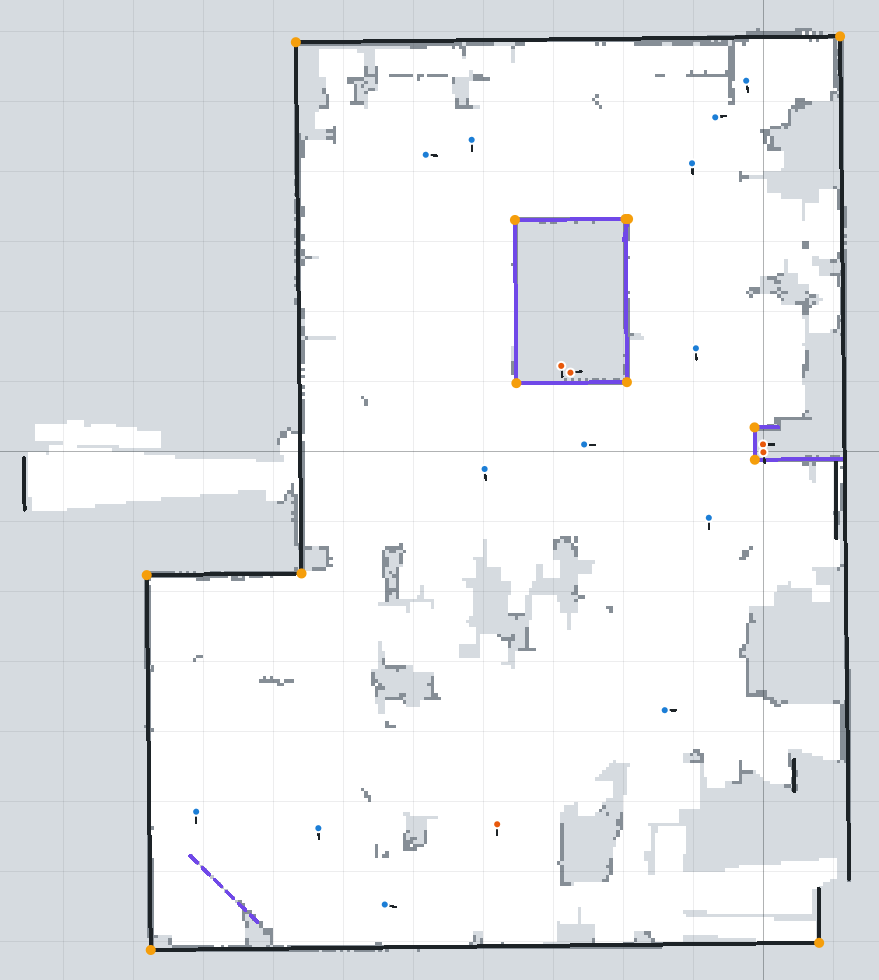
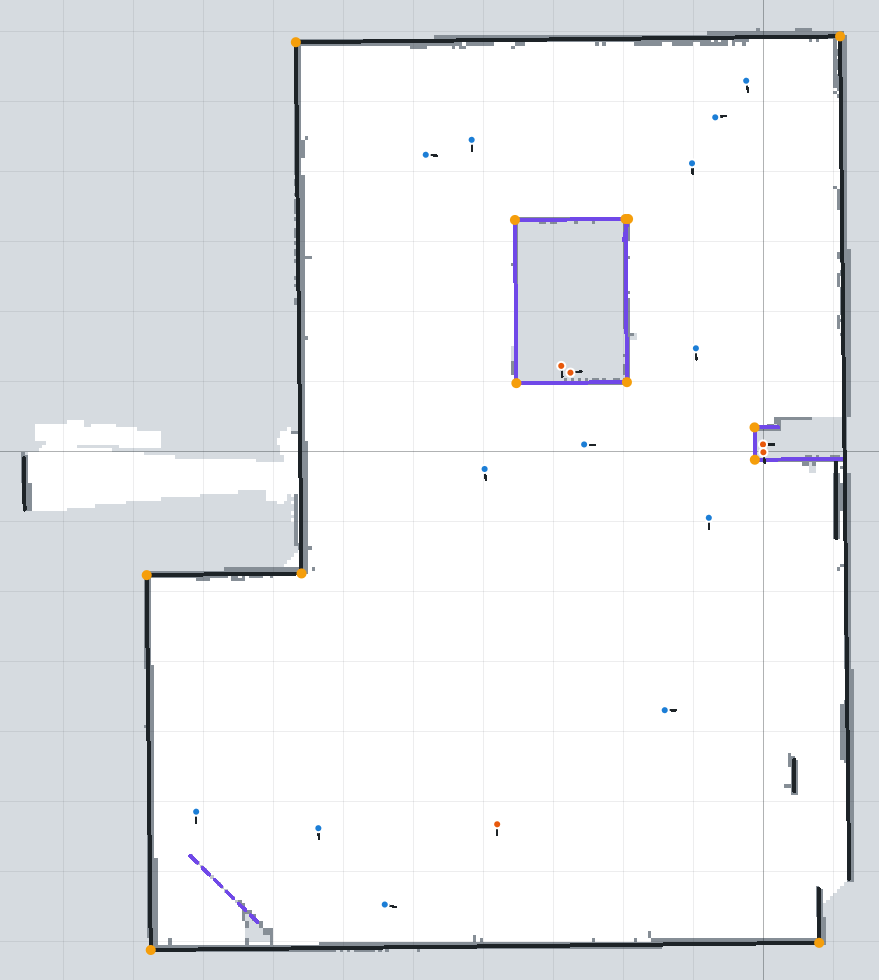
Plan propre (murs et 3 meubles) et grid map de localisation séparée
Remarque de Yohan : la vue propre montrait des zones sombres et des points
noirs dans la salle qui n'existent pas (seuls la table, l'armoire et le
tableau doivent apparaître).

- src/core/cleanup.js : semanticPlan. Dans la salle, seuls les murs et les
  meubles nommés restent ; fouillis et zones inconnues (dessous des bureaux,
  invisible depuis le sol) deviennent du sol. L'extérieur, trouvé depuis le
  bord de la carte et arrêté par les murs, n'entre pas par une ouverture de
  moins de 60 cm.
- Deux couches : plan (affichage, figures, aperçu) et grid map de
  localisation (tout ce que voit le lidar au sol). Sur le plan seul, des
  scans glissent de 47 cm le long des murs parallèles (14/18) ; sur la grid
  map de localisation, 18/18. La carte de référence enregistre les deux
  (champ « plan » facultatif).
- 2 nouveaux tests (102 au total) ; documentation jour2, algorithmes, journal.

diff --git a/src/core/cleanup.js b/src/core/cleanup.js
@@ -501,8 +501,8 @@ export const isPartlyOccupied = (grid, k) => grid.classify(k) === 1 && grid.prob
  * des faisceaux, sont découpés avant d'avoir pu être reconnus).
  * options.views : [{ pose, points }] des scans au sol, pour reconnaître les meubles surélevés ;
  * options.barriers : murs vus par tous les scans, y compris pris en hauteur (frontière de la salle) ;
- * options.labels : meubles nommés (carte sémantique, voir applyLabels).
- * Retourne { grid, segments, dominant, corners }.
+ * options.labels : meubles nommés (carte sémantique, voir applyLabels et semanticPlan).
+ * Retourne { grid (plan d'affichage), gridLoc (grid map de localisation), segments, dominant, corners }.
  */
 export function cleanMaps(grid, vectorSegments, poses, options = {}) {
   const walls = cleanGrid(grid, poses, options.grid);
@@ -511,7 +511,13 @@ export function cleanMaps(grid, vectorSegments, poses, options = {}) {
   let segments = classifySegments(segmentsNearFloor(cv.segments, walls), walls, objects);
   if (options.views) segments = markRaised(segments, options.views, options.raised);
   if (options.labels?.length) segments = applyLabels(segments, options.labels);
-  return { grid: drawObjects(walls, segments), segments, dominant: cv.dominant, corners: findCorners(segments) };
+  // grid map de localisation : murs, meubles et tout ce que le lidar voit depuis le sol (pieds de
+  // bureaux, rangées de chaises) : ce sont des repères. Sans eux, des scans glissent de 47 cm le
+  // long des murs parallèles (14/18 scans relocalisés au lieu de 18/18).
+  const gridLoc = drawObjects(walls, segments);
+  // plan pour l'humain : avec la carte sémantique, seuls les murs et les meubles nommés
+  const plan = options.labels?.length ? semanticPlan(gridLoc, segments, options.labels) : gridLoc;
+  return { grid: plan, gridLoc, segments, dominant: cv.dominant, corners: findCorners(segments) };
 }
 
 /** Meubles : groupes de segments 'objet' reliés par leurs extrémités (les 4 côtés d'une table). */
@@ -644,4 +650,96 @@ export function parseLabels(text) {
   const d = JSON.parse(text);
   if (d.format !== 'ld06-slam/etiquettes') throw new Error("Ce fichier n'est pas un fichier d'étiquettes ld06-slam");
   return d.objets.map(({ nom, detail = '', zone }) => ({ nom, detail, zone: zone.map(Number) }));
+}
+
+/**
+ * Plan de la salle avec la carte sémantique : dans la salle, seuls les murs et les meubles nommés
+ * restent des obstacles. Le reste de l'intérieur devient du sol :
+ *  - les cellules occupées loin des murs (chaises, sacs, pieds de bureaux vus d'en bas) ;
+ *  - les zones inconnues enfermées dans la salle (dessous des bureaux, que le lidar au sol ne
+ *    voit pas). L'extérieur (cellules inconnues reliées au bord de la carte, arrêtées par les
+ *    murs) ne change pas. Il ne passe pas par une ouverture de moins de 2 × gapReach (60 cm) entre
+ *    deux murs : un petit trou dans le contour ne fait pas « entrer » l'extérieur dans la salle.
+ * Les zones des meubles nommés sont laissées telles quelles (intérieur de la table : inconnu).
+ * Les murs (segments 'mur', dont les grands murs vus d'en haut) sont tracés en continu.
+ */
+export function semanticPlan(grid, segments, labels, gapReach = 0.3) {
+  const g = grid.clone();
+  const { width: w, height: h } = g;
+  const { lMin, lMax } = g.params;
+  // murs tracés, épaisseur 2 cellules (un remplissage en 4 voisins ne les traverse pas)
+  const wall = new Uint8Array(w * h);
+  for (const s of segments.filter((s) => s.kind === 'mur')) {
+    const [i1, j1] = g.worldToCell(s.x1, s.y1);
+    const [i2, j2] = g.worldToCell(s.x2, s.y2);
+    bresenham(i1, j1, i2, j2, (i, j) => {
+      for (const [di, dj] of [[0, 0], [1, 0], [0, 1]]) if (g.inside(i + di, j + dj)) wall[g.index(i + di, j + dj)] = 1;
+    });
+  }
+  // extérieur : inconnu relié au bord, sans traverser les murs. 1) remplissage par les seules
+  // cellules à plus de R cellules d'un mur (une ouverture de moins de 2R ne laisse pas passer) ;
+  // 2) extension de R + 1 cellules pour reprendre la bande d'extérieur collée aux murs.
+  const R = Math.round(gapReach / g.res);
+  const nearLine = new Uint8Array(w * h);
+  for (let k = 0; k < w * h; k++) {
+    if (!wall[k]) continue;
+    const i = k % w;
+    const j = (k - i) / w;
+    for (let dj = -R; dj <= R; dj++) for (let di = -R; di <= R; di++) if (g.inside(i + di, j + dj)) nearLine[g.index(i + di, j + dj)] = 1;
+  }
+  const outside = new Uint8Array(w * h);
+  const depth = new Int32Array(w * h).fill(-1);
+  const queue = [];
+  const unknown = (k) => !wall[k] && g.classify(k) === 0;
+  for (let k = 0; k < w * h; k++) {
+    const i = k % w;
+    const j = (k - i) / w;
+    if ((i === 0 || j === 0 || i === w - 1 || j === h - 1) && unknown(k) && !nearLine[k]) {
+      outside[k] = 1;
+      queue.push(k);
+    }
+  }
+  for (let q = 0; q < queue.length; q++) {
+    const k = queue[q];
+    const i = k % w;
+    const j = (k - i) / w;
+    for (const [di, dj] of [[1, 0], [-1, 0], [0, 1], [0, -1]]) {
+      if (!g.inside(i + di, j + dj)) continue;
+      const m = g.index(i + di, j + dj);
+      if (outside[m] || !unknown(m) || nearLine[m]) continue;
+      outside[m] = 1;
+      queue.push(m);
+    }
+  }
+  const ring = queue.slice();
+  for (const k of ring) depth[k] = 0;
+  for (let q = 0; q < ring.length; q++) {
+    const k = ring[q];
+    if (depth[k] > R) continue;
+    const i = k % w;
+    const j = (k - i) / w;
+    for (const [di, dj] of [[1, 0], [-1, 0], [0, 1], [0, -1]]) {
+      if (!g.inside(i + di, j + dj)) continue;
+      const m = g.index(i + di, j + dj);
+      if (outside[m] || !unknown(m)) continue;
+      outside[m] = 1;
+      depth[m] = depth[k] + 1;
+      ring.push(m);
+    }
+  }
+  const nearWall = (i, j) => {
+    for (let dj = -2; dj <= 2; dj++) for (let di = -2; di <= 2; di++) if (g.inside(i + di, j + dj) && wall[g.index(i + di, j + dj)]) return true;
+    return false;
+  };
+  for (let j = 0; j < h; j++) {
+    for (let i = 0; i < w; i++) {
+      const k = g.index(i, j);
+      if (outside[k]) continue;
+      const c = g.cellCenter(i, j);
+      if (labels.some((l) => inZone(c, l.zone))) continue;
+      if (wall[k]) g.logOdds[k] = lMax;
+      else if (g.classify(k) === 0 || (g.classify(k) === 1 && !nearWall(i, j))) g.logOdds[k] = lMin;
+    }
+  }
+  return g;
 }

diff --git a/src/core/refmap.js b/src/core/refmap.js
@@ -37,7 +37,8 @@ function unRunLength(runs, size) {
 
 /**
  * Crée une carte de référence.
- * o = { name, grid, segments, corners, scans: [{ name, pose, elevated }], clean (version propre ou brute) }
+ * o = { name, grid, plan, segments, corners, labels, scans: [{ name, pose, elevated }], clean (version propre ou brute) }
+ * grid : grid map de localisation ; plan : grid map d'affichage (murs et meubles nommés), facultative.
  * elevated : scan pris en hauteur (robot posé sur un meuble), utilisé pour le recalage seulement.
  */
 export function makeReferenceMap(o) {
@@ -46,7 +47,8 @@ export function makeReferenceMap(o) {
     name: o.name ?? 'Carte de référence',
     date: o.date ?? new Date().toISOString(),
     clean: Boolean(o.clean),
-    grid: o.grid,
+    grid: o.grid, // localisation : tout ce que voit le lidar
+    plan: o.plan ?? null, // affichage : murs et meubles nommés (null : la grid sert aussi de plan)
     segments: (o.segments ?? []).map(({ x1, y1, x2, y2, kind, raised }) =>
       kind === 'objet' ? { x1, y1, x2, y2, kind, raised: Boolean(raised) } : { x1, y1, x2, y2 },
     ),
@@ -58,10 +60,36 @@ export function makeReferenceMap(o) {
 }
 
 /** Texte JSON de la carte de référence. */
-export function serializeReferenceMap(ref) {
-  const g = ref.grid;
+/** Grid map -> objet JSON (valeurs 0..255 compressées par plages). */
+function encodeGrid(g) {
   const values = new Array(g.width * g.height);
   for (let k = 0; k < values.length; k++) values[k] = g.value(k);
+  return {
+    resolution: g.res,
+    offI: g.offI,
+    offJ: g.offJ,
+    width: g.width,
+    height: g.height,
+    encoding: 'valeurs 0..255 (0 libre, 128 inconnu, 255 occupé), lignes de bas en haut, plages [valeur, nombre]',
+    runs: runLength(values),
+  };
+}
+
+/** Objet JSON -> grid map. */
+function decodeGrid(gd) {
+  const grid = new GridMap({ resolution: gd.resolution, offI: gd.offI, offJ: gd.offJ, width: gd.width, height: gd.height });
+  const values = unRunLength(gd.runs, gd.width * gd.height);
+  const { lMin, lMax } = grid.params;
+  for (let k = 0; k < values.length; k++) {
+    const v = values[k];
+    if (v === 128) continue; // inconnu : log-odds 0
+    const p = Math.min(0.999, Math.max(0.001, v / 255));
+    grid.logOdds[k] = Math.min(lMax, Math.max(lMin, Math.log(p / (1 - p))));
+  }
+  return grid;
+}
+
+export function serializeReferenceMap(ref) {
   const round = (v) => Math.round(v * 10000) / 10000;
   return JSON.stringify({
     format: REFMAP_FORMAT,
@@ -69,15 +97,10 @@ export function serializeReferenceMap(ref) {
     name: ref.name,
     date: ref.date,
     clean: ref.clean,
-    grid: {
-      resolution: g.res,
-      offI: g.offI,
-      offJ: g.offJ,
-      width: g.width,
-      height: g.height,
-      encoding: 'valeurs 0..255 (0 libre, 128 inconnu, 255 occupé), lignes de bas en haut, plages [valeur, nombre]',
-      runs: runLength(values),
-    },
+    // grid map de localisation : tout ce que le lidar voit depuis le sol (repères du robot)
+    grid: encodeGrid(ref.grid),
+    // plan pour l'humain : murs et meubles nommés seulement (facultatif)
+    ...(ref.plan ? { plan: encodeGrid(ref.plan) } : {}),
     // murs : [x1, y1, x2, y2] ; meubles posés au sol : [..., "objet"] ; surélevés : [..., "objet surélevé"]
     segments: ref.segments.map((s) =>
       [s.x1, s.y1, s.x2, s.y2].map(round).concat(s.kind === 'objet' ? [s.raised ? 'objet surélevé' : 'objet'] : []),
@@ -96,21 +119,12 @@ export function serializeReferenceMap(ref) {
 export function parseReferenceMap(text) {
   const d = JSON.parse(text);
   if (d.format !== REFMAP_FORMAT) throw new Error("Ce fichier n'est pas une carte de référence ld06-slam");
-  const gd = d.grid;
-  const grid = new GridMap({ resolution: gd.resolution, offI: gd.offI, offJ: gd.offJ, width: gd.width, height: gd.height });
-  const values = unRunLength(gd.runs, gd.width * gd.height);
-  const { lMin, lMax } = grid.params;
-  for (let k = 0; k < values.length; k++) {
-    const v = values[k];
-    if (v === 128) continue; // inconnu : log-odds 0
-    const p = Math.min(0.999, Math.max(0.001, v / 255));
-    grid.logOdds[k] = Math.min(lMax, Math.max(lMin, Math.log(p / (1 - p))));
-  }
   return makeReferenceMap({
     name: d.name,
     date: d.date,
     clean: d.clean,
-    grid,
+    grid: decodeGrid(d.grid),
+    plan: d.plan ? decodeGrid(d.plan) : null,
     segments: d.segments.map(([x1, y1, x2, y2, kind]) => ({
       x1,
       y1,

diff --git a/test/cleanup.test.js b/test/cleanup.test.js
@@ -1,6 +1,6 @@
 import { test } from 'node:test';
 import assert from 'node:assert/strict';
-import { classifySegments, cleanGrid, cleanMaps, cleanVectorMap, dominantDirection, drawObjects, isPartlyOccupied, labelPositions, applyLabels, markRaised, objectGroups, parseLabels, segmentsNearFloor } from '../src/core/cleanup.js';
+import { classifySegments, cleanGrid, cleanMaps, cleanVectorMap, dominantDirection, drawObjects, isPartlyOccupied, labelPositions, applyLabels, markRaised, objectGroups, parseLabels, segmentsNearFloor, semanticPlan } from '../src/core/cleanup.js';
 import { GridMap, gridFromScan } from '../src/core/gridmap.js';
 import { VectorMap } from '../src/core/vectormap.js';
 import { rectangle, simulateScan } from '../src/core/sim.js';
@@ -192,4 +192,18 @@ test('carte sémantique : seuls les meubles nommés restent des objets, les murs
   assert.deepEqual([p.nom, p.detail, p.found], ['Table', 'sur roulettes', true]);
   assert.ok(Math.abs(p.x - 1.0) < 1e-9 && Math.abs(p.y - 0.5) < 1e-9, 'au centre des segments de la table');
   assert.throws(() => parseLabels('{"format":"autre"}'), /étiquettes/);
+});
+
+test('plan de la salle : fouillis et zones inconnues de la salle effacés, meubles nommés et extérieur gardés', () => {
+  const g = roomWithTable(); // pièce 2 m × 2 m, intérieur de table inconnu en (1.2..1.6, 1.2..1.5)
+  g.logOdds[g.index(8, 20)] = 4; // une chaise au milieu de la pièce
+  for (let j = 18; j < 21; j++) for (let i = 18; i < 22; i++) g.logOdds[g.index(i, j)] = 0; // dessous d'un bureau, jamais vu
+  const walls = [S(0.45, 0.45, 2.55, 0.45), S(2.55, 0.45, 2.55, 2.55), S(2.55, 2.55, 0.45, 2.55), S(0.45, 2.55, 0.45, 0.45)].map((s) => ({ ...s, kind: 'mur' }));
+  const table = [{ ...objet(1.2, 1.2, 1.6, 1.2), label: 'Table' }];
+  const plan = semanticPlan(g, [...walls, ...table], [{ nom: 'Table', detail: '', zone: [1.1, 1.1, 1.7, 1.6] }]);
+  assert.equal(plan.classify(plan.index(8, 20)), -1, 'chaise effacée');
+  assert.equal(plan.classify(plan.index(19, 19)), -1, 'dessous du bureau : sol');
+  assert.equal(plan.classify(plan.index(13, 13)), 0, 'intérieur de la table : inconnu');
+  assert.equal(plan.classify(plan.index(4, 15)), 1, 'mur');
+  assert.equal(plan.classify(plan.index(1, 1)), 0, 'extérieur inchangé');
 });

diff --git a/app/app.js b/app/app.js
@@ -597,7 +597,7 @@ function render() {
     ctx.fillRect(0, 0, W(), H());
     ctx.imageSmoothingEnabled = false;
     if (showRef) {
-      const g = refmap.map.grid;
+      const g = refmap.map.plan ?? refmap.map.grid;
       refmap.cleanImage ??= cleanGridImage(g);
       ctx.globalAlpha = state.gridClean ? 0.55 : 1;
       ctx.drawImage(refmap.cleanImage, sx(g.originX), sy(g.originY + g.height * g.res), g.width * g.res * s, g.height * g.res * s);
@@ -621,7 +621,7 @@ function render() {
 
   if (showRef) {
     // carte de référence en fond : sol blanc, murs gris, segments gris foncé
-    const g = refmap.map.grid;
+    const g = refmap.map.plan ?? refmap.map.grid;
     refmap.image ??= referenceImage(g);
     ctx.imageSmoothingEnabled = false;
     ctx.drawImage(refmap.image, sx(g.originX), sy(g.originY + g.height * g.res), g.width * g.res * s, g.height * g.res * s);
@@ -749,6 +749,7 @@ function cleanGridImage(g) {
 function refreshClean() {
   state.gridCleanImage = null;
   state.gridClean = null;
+  state.gridLoc = null;
   state.vectorClean = null;
   state.corners = null;
   if (!state.grid) return;
@@ -777,7 +778,8 @@ function refreshClean() {
     barriers: high && state.vector ? cleanVectorMap(noAbsence(vis)).segments : [],
     labels: state.labels, // carte sémantique : seuls les meubles nommés restent des objets
   });
-  state.gridClean = c.grid;
+  state.gridClean = c.grid; // plan (affichage)
+  state.gridLoc = c.gridLoc; // grid map de localisation (figée avec la carte de référence)
   if (state.vector) {
     state.vectorClean = { segments: c.segments, dominant: c.dominant };
     state.corners = c.corners;
@@ -881,7 +883,8 @@ function freezeReference() {
   setReferenceMap(
     makeReferenceMap({
       name: `Carte figée (${vis.length} scans)`,
-      grid: clean ? state.gridClean : state.grid,
+      grid: clean ? state.gridLoc ?? state.gridClean : state.grid,
+      plan: clean ? state.gridClean : null,
       segments: clean ? state.vectorClean.segments : state.vector.segments,
       corners: clean ? state.corners ?? [] : [],
       scans: vis.map((e) => ({ name: e.name, pose: e.pose, elevated: e.scan.elevated })),

diff --git a/test/refmap.test.js b/test/refmap.test.js
@@ -72,3 +72,13 @@ test('carte de référence : les étiquettes des meubles sont enregistrées', ()
   const labels = [{ nom: 'Armoire', detail: 'posée au sol', zone: [0, 0, 1, 0.5] }];
   assert.deepEqual(parseReferenceMap(serializeReferenceMap(makeReferenceMap({ grid, labels }))).labels, labels);
 });
+
+test('carte de référence : plan d\'affichage enregistré à côté de la grid map de localisation', () => {
+  const grid = gridFromScan(simulateScan(rectangle(0, 0, 4, 3), { x: 2, y: 1.5, theta: 0 }, { seed: 1 }));
+  const plan = grid.clone();
+  plan.logOdds.fill(-4);
+  const back = parseReferenceMap(serializeReferenceMap(makeReferenceMap({ grid, plan })));
+  assert.equal(back.plan.classify(0), -1);
+  assert.equal(back.grid.classify(0), grid.classify(0));
+  assert.equal(parseReferenceMap(serializeReferenceMap(makeReferenceMap({ grid }))).plan, null);
+});

diff --git a/docs/jour2.md b/docs/jour2.md
@@ -132,6 +132,17 @@ dans la carte de référence et affichées dans l'application (case « Étiquett
 figures 06 et 07. Le détail « sur roulettes » de la table vient de l'observation : le lidar,
 lui, voit la table comme un bloc (voir plus bas).
 
+**Deux couches de grid map.** La carte de référence enregistre :
+
+- le **plan**, pour l'humain (`semanticPlan`) : dans la salle, seuls les murs et les trois
+  meubles restent ; le reste de l'intérieur devient du sol, y compris le dessous des bureaux que
+  le lidar au sol ne voit pas. L'extérieur ne change pas (il n'entre pas par une ouverture de
+  moins de 60 cm). C'est ce que montrent la vue propre, les figures et l'aperçu ;
+- la **grid map de localisation**, pour le robot : tout ce que le lidar voit depuis le sol, y
+  compris les pieds de bureaux et les rangées de chaises. Ce « fouillis » n'a rien à faire sur un
+  plan, mais il sert de repère : localisés sur le plan seul, les scans du haut de la salle
+  glissent de 47 cm le long des murs parallèles (14/18 réussites au lieu de 18/18).
+
 **Objets fixes.** Les meubles (table, armoire, tableau) sont gardés dans la carte propre
 (méthode : [algorithmes.md](algorithmes.md), § 6). Ils disparaissaient auparavant : dans la grid
 map, des faisceaux effaçaient leurs cellules (17 cellules occupées pour 8 m de contour de table),
@@ -176,8 +187,10 @@ l'évaluation sur des scans de test indépendants.
 
 | Référence | Méthode | 7 scans | 18 scans, murs + fouillis | 18 scans, carte finale (au sol / en hauteur) | Erreur médiane | Temps |
 | --- | --- | --- | --- | --- | --- | --- |
-| Grid map | Multi-résolution | 13/18 | 13/18 | **18/18** (13/13, 5/5) | 2,2 cm / 0,25° | 103 ms |
-| Grid map | Descente de gradient | 11/18 | 13/18 | **18/18** (13/13, 5/5) | 2,4 cm / 0,13° | 6 ms |
+| Grid map de localisation | Multi-résolution | 13/18 | 13/18 | **18/18** (13/13, 5/5) | 2,2 cm / 0,25° | 103 ms |
+| Grid map de localisation | Descente de gradient | 11/18 | 13/18 | **18/18** (13/13, 5/5) | 2,4 cm / 0,13° | 6 ms |
+| Plan (murs et 3 meubles) | Multi-résolution | – | – | 14/18 (10/13, 4/5) | 3,2 cm / 0,25° | 106 ms |
+| Plan (murs et 3 meubles) | Descente de gradient | – | – | 16/18 (11/13, 5/5) | 3,5 cm / 0,28° | 3 ms |
 | Carte vectorielle | Multi-résolution | 13/18 | 17/18 | 15/18 (10/13, 5/5) | 1,4 cm / 0,50° | 95 ms |
 | Carte vectorielle | Calcul direct | 13/18 | 10/18 | 14/18 (9/13, 5/5) | 1,3 cm / 0,45° | 3 ms |
 

diff --git a/docs/journal.md b/docs/journal.md
@@ -126,6 +126,8 @@ direct 10/18 → 16/18.
 | « Sur roulettes » invisible pour le lidar | Information hors du plan de mesure | Étiquettes « Table · sur roulettes », « Armoire · posée au sol », « Tableau · sur 2 roues » sur la carte (application, figures 06 et 07, aperçu SVG) |
 | Carte vectorielle moins bonne pour la localisation (15/18) | Moins de repères le long des murs encombrés | Grid map de référence par défaut (18/18) |
 | Scans perdus au rechargement de la page | L'application ne garde rien | Bouton « Scans de la salle » : les 18 scans à leurs poses recalées, avec les étiquettes |
+| Zones sombres et points noirs dans la vue propre, sans réalité | Dessous des bureaux invisible depuis le sol (inconnu), pieds de chaises gardés comme obstacles | Plan sémantique (`semanticPlan`) : dans la salle, seuls les murs et les 3 meubles ; l'extérieur ne passe pas par une ouverture de moins de 60 cm |
+| Localisation dégradée sur ce plan (14/18) | Sans les pieds de bureaux, glissement de 47 cm le long des murs parallèles | Deux couches : plan pour l'affichage, grid map de localisation (tout ce que voit le lidar) pour le robot : 18/18 |
 
 Ajouts après lecture des documents du cours : localisation sur trois références et six
 méthodes (dont le calcul direct inspiré de l'article « Mars Attacks! »), coins, oubli des

diff --git a/docs/algorithmes.md b/docs/algorithmes.md
@@ -145,6 +145,12 @@ Pour chaque scan :
   meubles réels sont nommés à la main avec une zone ; un objet fixe dont le milieu est dans la
   zone prend le nom du meuble, les autres objets détectés sont retirés. L'étiquette s'écrit au
   centre des segments du meuble.
+- **Deux couches** (`cleanMaps` → `grid` et `gridLoc`) : le **plan** (`semanticPlan`) ne garde
+  dans la salle que les murs et les meubles nommés, et remplit de sol le reste de l'intérieur.
+  L'intérieur est trouvé par un remplissage de l'extérieur depuis le bord de la carte, arrêté par
+  les murs, d'abord par les seules cellules à plus de 30 cm d'un mur (une ouverture de moins de
+  60 cm ne le laisse pas entrer), puis étendu de 30 cm le long des murs. La **grid map de
+  localisation** garde tout ce que le lidar voit depuis le sol : ce sont des repères pour le robot.
 - **Coins** : intersection de deux murs presque perpendiculaires dont les extrémités se
   rejoignent, avec la direction de la bissectrice (point d'intérêt orienté du cours).
 
